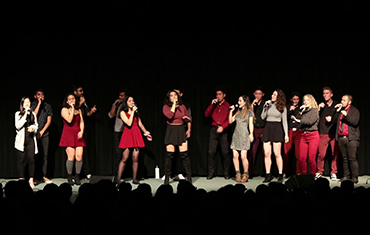
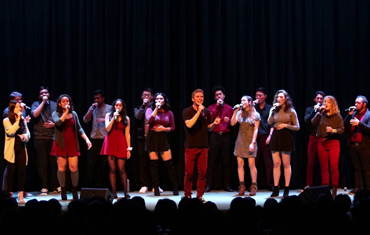
re-populated performances

diff --git a/js/vue/shows.js b/js/vue/shows.js
@@ -3,12 +3,12 @@ const app = new Vue({
     data: {
         shows: [
           {
-            title: "God Is A Woman",
-            location: "2019 Spring Concert",
+            title: "ICCA 2020 Set",
+            location: "ICCA Southwest Quarterfinals 2020",
             link: "https://www.youtube.com/watch?v=SH228rEfS_w",
             day: "27",
             month: "Mar",
-            picture: "./images/performances/giaw.jpg"
+            picture: "./images/performances/icca2020.jpg"
           },
           {
             title: "God Is A Woman",
@@ -17,6 +17,38 @@ const app = new Vue({
             day: "27",
             month: "Mar",
             picture: "./images/performances/giaw.jpg"
+          },
+          {
+            title: "Hey There Delilah",
+            location: "2019 Spring Concert",
+            link: "https://www.youtube.com/watch?v=8sNmYMaIbjc",
+            day: "27",
+            month: "Mar",
+            picture: "./images/performances/htd.jpg"
+          },
+          {
+            title: "Don't You Worry Bout A Thing",
+            location: "2019 Spring Concert",
+            link: "https://www.youtube.com/watch?v=G-4d5xbhZ4A",
+            day: "27",
+            month: "Mar",
+            picture: "./images/performances/dywbat.jpg"
+          },
+          {
+            title: "Turning Tables",
+            location: "2019 Spring Concert",
+            link: "https://www.youtube.com/watch?v=PTSHFRfFuRY",
+            day: "27",
+            month: "Mar",
+            picture: "./images/performances/tt.jpg"
+          },
+          {
+            title: "Used to Love U++",
+            location: "2019 Spring Concert",
+            link: "https://www.youtube.com/watch?v=tm9LhR8NanY",
+            day: "27",
+            month: "Mar",
+            picture: "./images/performances/utlu.jpg"
           }
 
       ]

diff --git a/performances.html b/performances.html
@@ -350,6 +350,9 @@
 <!-- SyoTimer -->
 <script src="plugins/syotimer/jquery.syotimer.min.js"></script>
 
+<script src="js/main.js"></script>
+
+
 <!-- People Component -->
 <script src="js/vue/components/Performance.js"></script>
 <!-- Members Data -->
